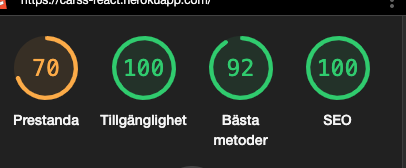
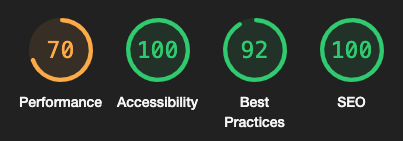
docs: add testing section to readme

diff --git a/TESTING.md b/TESTING.md
@@ -1,0 +1,76 @@
+# Testing
+
+## TOC
+
+- [Navigation](#navigation)
+- [Authentication](#authentication)
+- [Car](#car)
+- [Account](#account)
+- [Code Validation](#code-validation)
+  - [JSX](#jsx)
+  - [CSS](#css)
+  - [Lighthouse Scores](#lighthouse-scores)
+- [Responsiveness](#responsiveness)
+
+### Navigation
+
+| Test # | Test                                                                                                                                            | Result |
+| ------ | ----------------------------------------------------------------------------------------------------------------------------------------------- | ------ |
+| 1      | _As a_ user, _I can_ find and access the navigation bar on every page _so that_ I can easily navigate to the different sections of the website. | PASS   |
+| 2      | _As a_ user, _I can_ continue scrolling without pagination _so that_ I can find more car ads.                                                   | PASS   |
+| 3      | _As a_ user, _I can_ search for keywords in the search bar _so that_ I can easily find thet car with specs that I am looking for.               | PASS   |
+
+### Account
+
+| Test # | Test                                                                                                    | Result |
+| ------ | ------------------------------------------------------------------------------------------------------- | ------ |
+| 1      | _As a_ user, _I can_ find a column that shows the top sellers _so that_ I can easily check those first. | PASS   |
+| 2      | _As a_ user, _I can_ click on a profile _so that_ I can find more information about the seller.         | PASS   |
+| 3      | _As a_ user, _I can_ edit my profile _so that_ I can update or change my information.                   | PASS   |
+
+### Car
+
+| Test # | Test                                                                                                              | Result |
+| ------ | ----------------------------------------------------------------------------------------------------------------- | ------ |
+| 1      | _As a_ user, _I can_ delete the car ad _so that_ I no longer are showing it to other visitors.                    | PASS   |
+| 2      | _As a_ user, _I can_ edit the car ad _so that_ I can update the information.                                      | PASS   |
+| 3      | _As a_ user, _I can_ create an ad for my car _so that_ others can view my ad and make inquiries to buy my car.    | PASS   |
+| 4      | _As a_ user, _I can_ find all the cars on the main page _so that_ I can look for cars that may be of my interest. | PASS   |
+| 5      | _As a_ user, _I can_ click on a car _so that_ I can view more details about the car.                              | PASS   |
+
+### Authentication
+
+| Test # | Test                                                                                                               | Result |
+| ------ | ------------------------------------------------------------------------------------------------------------------ | ------ |
+| 1      | _As a_ user, _I can_ register an account _so that_ I can access all the site features and create a car sales ad.   | PASS   |
+| 2      | _As a_ user, _I can_ login to my account _so that_ I can use the sites features and access my profile.             | PASS   |
+| 3      | _As a_ user, _I can_ logout _so that_ I can keep my account secure                                                 | PASS   |
+| 4      | _As an_ admin, _I can_ set the access tokens to refresh _so that_ users are not logged out automatically to often. | PASS   |
+
+## Code Validation
+
+### JSX
+
+The JSX code was validated during the development process and corrected as the project proceeded.
+
+### CSS
+
+To ensure there were no syntax errors, the W3C CSS Validator Service was used to validate the project's custom CSS files.
+
+### Lighthouse Scores
+
+The Lighthouse Scores were overall high for the metrics for accessibility, best practices and SEO for both desktop and mobile devices. The performance metrics however were impacted by the large image sizes causing long loading times for the site. For future updates I will investigate possibilities to have cloudinary to resize the images on upload automatically to speed up the site.
+
+- Main Page Desktop
+
+![Lighthouse Desktop](docs/assets/testing/lighthouse_desktop.png)
+
+- Main Page Mobile
+
+![Lighthouse Mobile](docs/assets/testing/lighthouse_mobile.png)
+
+### Responsiveness
+
+The website was thoroughly tested using the [responsivetesttool.](https://responsivetesttool.com/)
+
+Return to [README.md](README.md)
